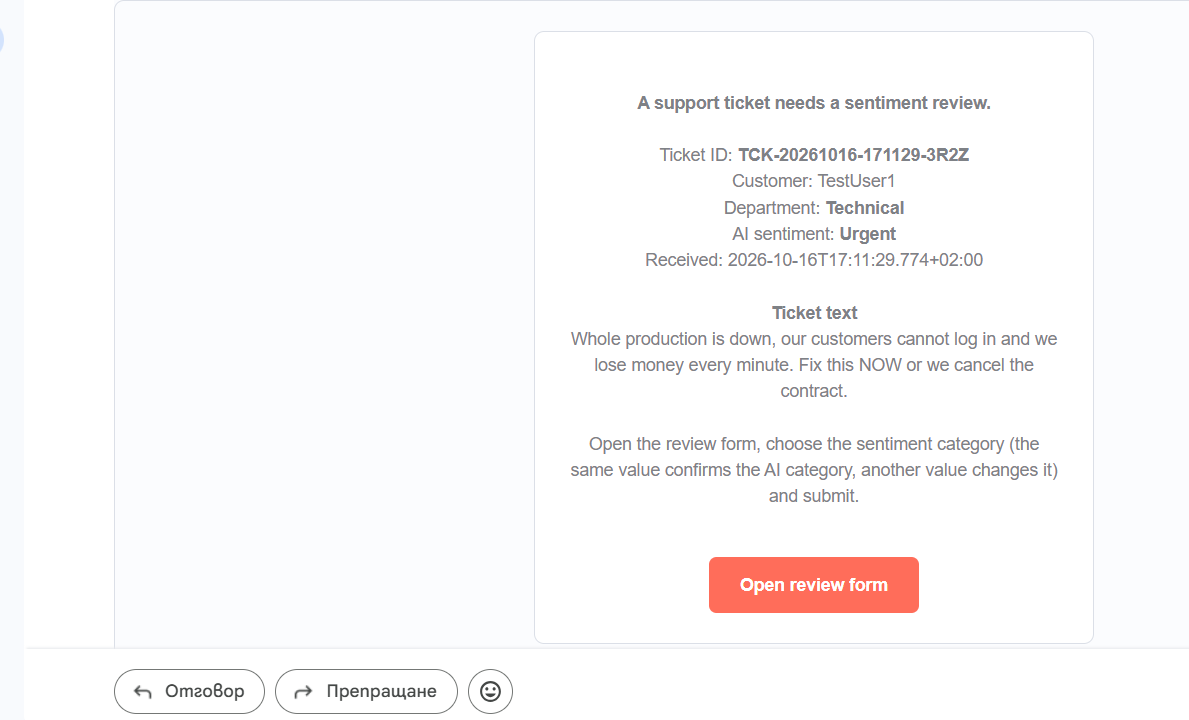
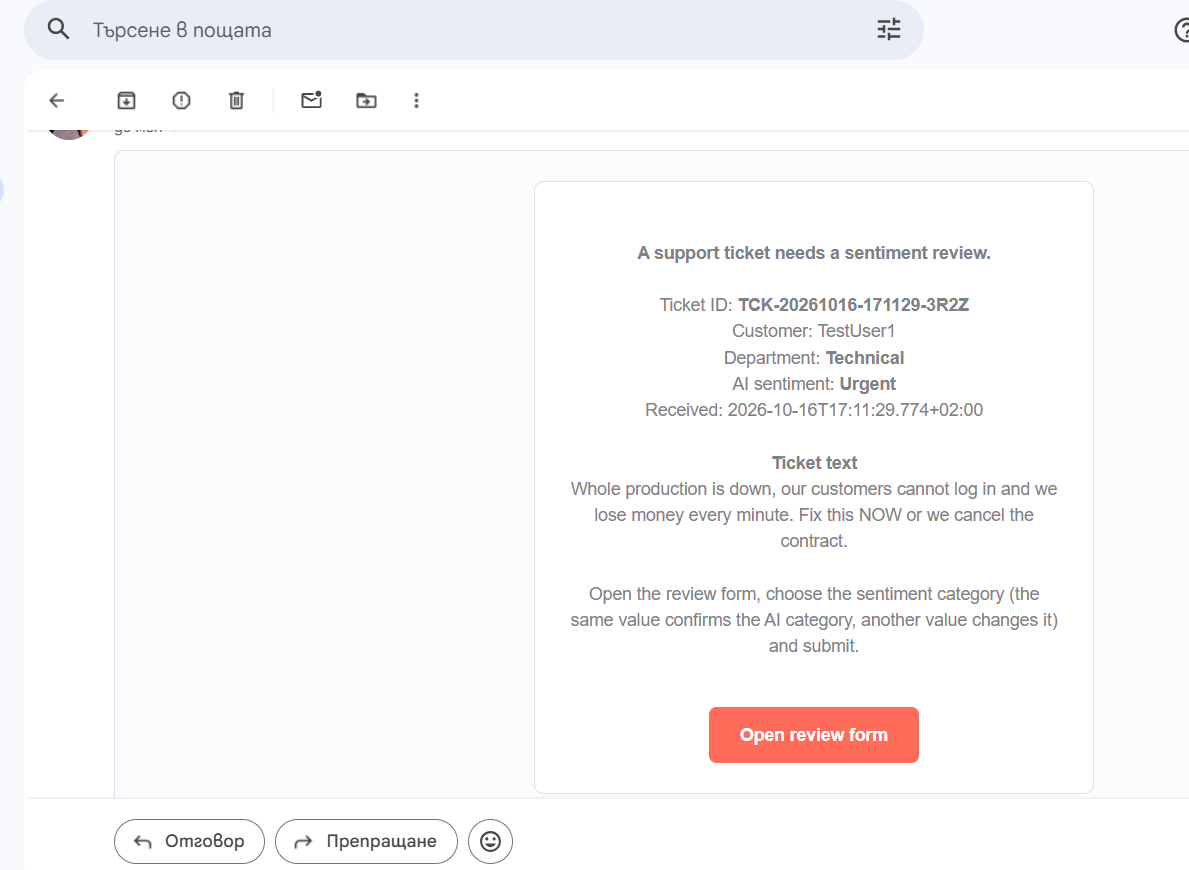
homework 12 screenshots - original uncropped images
Claude-Session: https://claude.ai/code/session_019c6WZNXjbUbzguNbNr8vf1

diff --git a/homeworks/12-support-ticket-router/CHANGELOG.md b/homeworks/12-support-ticket-router/CHANGELOG.md
@@ -1,7 +1,7 @@
 # Changelog - 12-support-ticket-router
 
 ## 2026-10-16 - 12-support-ticket-router v2 (screenshots)
-- Промяна: добавени 4 снимки от теста в `screenshots/` (имейл, форма за ревю, Google Tasks), описани в `solution-plan.md`. Изрязани, за да не съдържат лични данни.
+- Промяна: добавени 4 снимки от теста в `screenshots/` (имейл, форма за ревю, Google Tasks), описани в `solution-plan.md`. Оригинални, непроменени (Здравко се е погрижил да няма конфиденциални данни).
 - Причина: искане на Здравко - потвърждение от теста.
 - Засегнати нодове: няма.
 

diff --git a/CHANGELOG.md b/CHANGELOG.md
@@ -1,7 +1,7 @@
 # Changelog
 
 ## 2026-10-16 - 12-support-ticket-router (само документация)
-- Промяна: добавени 4 снимки от теста в `homeworks/12-support-ticket-router/screenshots/` (имейл за ревю, форма, Google Tasks).
+- Промяна: добавени 4 снимки от теста в `homeworks/12-support-ticket-router/screenshots/` (имейл за ревю, форма, Google Tasks) - оригинални, непроменени.
 - Причина: искане на Здравко - потвърждение от теста.
 - Засегнати нодове: няма.
 
